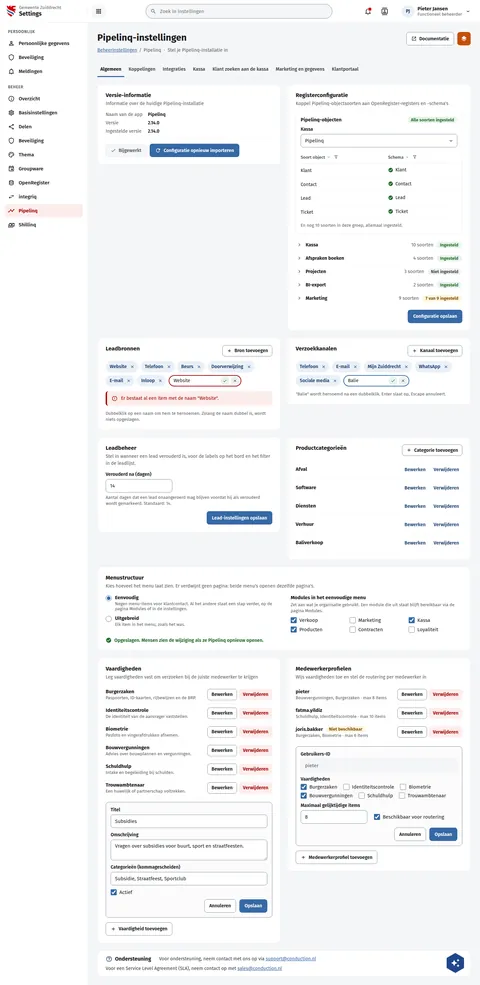
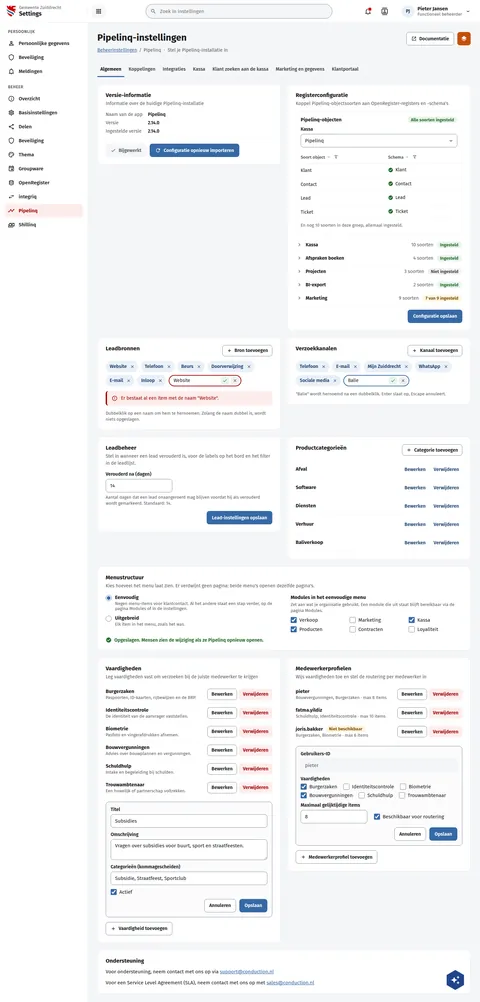
fix(screens): PqBeheer draws Ondersteuning as live's settings card
The board drew Ondersteuning as a one-line strip with an icon and a 16px
title. Live renders it as a full-width settings section: the 17px card
title, then the support and SLA lines as two paragraphs (pl4 item 9).
Rebuilt with build.py --only PqBeheer (2954 -> 3006).

Assisted-by: ClaudeCode:claude-opus-5-5

diff --git a/preview/screens/boards/PqBeheer.html b/preview/screens/boards/PqBeheer.html
@@ -375,10 +375,10 @@ a{color:var(--sc-primary, #3669a5)}a:hover{color:var(--sc-primary-deep, #234a78)
             <div style="display: flex; flex-wrap: wrap; align-items: center; gap: 10px"><button type="button" style="display: inline-flex; align-items: center; gap: 8px; height: 40px; padding: 0 14px; border: 1px solid var(--sc-work-field, #828a95); border-radius: 8px; background: #ffffff; color: var(--sc-work-ink, #1b1c1d); white-space: nowrap; font: 600 14px var(--sc-font, 'Fira Sans'), sans-serif"><svg width="16" height="16" viewbox="0 0 24 24" fill="currentColor" aria-hidden="true"><path d="M19,13H13V19H11V13H5V11H11V5H13V11H19V13Z"></path></svg>Medewerkerprofiel toevoegen</button></div>
           </section>
 
-          <section aria-labelledby="pq-s-support" style="grid-column: 1 / -1; background: #ffffff; border: 1px solid var(--sc-work-line, #e4e6ea); border-radius: 12px; padding: 22px 24px; display: flex; flex-direction: column; gap: 14px; min-width: 0; box-sizing: border-box; flex-direction: row; flex-wrap: wrap; align-items: center; gap: 10px 24px; padding: 16px 24px">
-            <h2 id="pq-s-support" style="margin: 0; font-size: 16px; font-weight: 700; display: inline-flex; align-items: center; gap: 8px"><svg width="20" height="20" viewbox="0 0 24 24" fill="#234a78" aria-hidden="true" style="fill:var(--sc-primary-deep, #234a78)"><path d="M11,18H13V16H11V18M12,2A10,10 0 0,0 2,12A10,10 0 0,0 12,22A10,10 0 0,0 22,12A10,10 0 0,0 12,2M12,20C7.59,20 4,16.41 4,12C4,7.59 7.59,4 12,4C16.41,4 20,7.59 20,12C20,16.41 16.41,20 12,20M12,6A4,4 0 0,0 8,10H10A2,2 0 0,1 12,8A2,2 0 0,1 14,10C14,12 11,11.75 11,15H13C13,12.75 16,12.5 16,10A4,4 0 0,0 12,6Z"></path></svg>Ondersteuning</h2>
-            <span style="font-size: 14px; color: var(--sc-work-text, #3d4047)">Voor ondersteuning, neem contact met ons op via <a href="mailto:support@conduction.nl">support@conduction.nl</a></span>
-            <span style="font-size: 14px; color: var(--sc-work-text, #3d4047)">Voor een Service Level Agreement (SLA), neem contact op met <a href="mailto:sales@conduction.nl">sales@conduction.nl</a></span>
+          <section aria-labelledby="pq-s-support" style="grid-column: 1 / -1; background: #ffffff; border: 1px solid var(--sc-work-line, #e4e6ea); border-radius: 12px; padding: 22px 24px; display: flex; flex-direction: column; gap: 14px; min-width: 0; box-sizing: border-box; gap: 10px">
+            <h2 id="pq-s-support" style="margin: 0; font-size: 17px; font-weight: 700; line-height: 1.3">Ondersteuning</h2>
+            <p style="margin: 0; font-size: 15px; line-height: 1.5">Voor ondersteuning, neem contact met ons op via <a href="mailto:support@conduction.nl">support@conduction.nl</a></p>
+            <p style="margin: 0; font-size: 15px; line-height: 1.5">Voor een Service Level Agreement (SLA), neem contact met ons op met <a href="mailto:sales@conduction.nl">sales@conduction.nl</a></p>
           </section>
         </div>
       </main>

diff --git a/screens-src/zuiddrecht/PqBeheer.dc.html b/screens-src/zuiddrecht/PqBeheer.dc.html
@@ -203,10 +203,10 @@ a{color:#3669a5}a:hover{color:#234a78}
             <div style="{{ S.row }}"><button type="button" style="{{ S.btnS }}"><svg width="16" height="16" viewBox="0 0 24 24" fill="currentColor" aria-hidden="true"><path d="M19,13H13V19H11V13H5V11H11V5H13V11H19V13Z"></path></svg>Medewerkerprofiel toevoegen</button></div>
           </section>
 
-          <section aria-labelledby="pq-s-support" style="{{ S.cardWide }}; flex-direction: row; flex-wrap: wrap; align-items: center; gap: 10px 24px; padding: 16px 24px">
-            <h2 id="pq-s-support" style="margin: 0; font-size: 16px; font-weight: 700; display: inline-flex; align-items: center; gap: 8px"><svg width="20" height="20" viewBox="0 0 24 24" fill="#234a78" aria-hidden="true"><path d="M11,18H13V16H11V18M12,2A10,10 0 0,0 2,12A10,10 0 0,0 12,22A10,10 0 0,0 22,12A10,10 0 0,0 12,2M12,20C7.59,20 4,16.41 4,12C4,7.59 7.59,4 12,4C16.41,4 20,7.59 20,12C20,16.41 16.41,20 12,20M12,6A4,4 0 0,0 8,10H10A2,2 0 0,1 12,8A2,2 0 0,1 14,10C14,12 11,11.75 11,15H13C13,12.75 16,12.5 16,10A4,4 0 0,0 12,6Z"></path></svg>Ondersteuning</h2>
-            <span style="font-size: 14px; color: #3d4047">Voor ondersteuning, neem contact met ons op via <a href="mailto:support@conduction.nl">support@conduction.nl</a></span>
-            <span style="font-size: 14px; color: #3d4047">Voor een Service Level Agreement (SLA), neem contact op met <a href="mailto:sales@conduction.nl">sales@conduction.nl</a></span>
+          <section aria-labelledby="pq-s-support" style="{{ S.cardWide }}; gap: 10px">
+            <h2 id="pq-s-support" style="{{ S.h2 }}">Ondersteuning</h2>
+            <p style="margin: 0; font-size: 15px; line-height: 1.5">Voor ondersteuning, neem contact met ons op via <a href="mailto:support@conduction.nl">support@conduction.nl</a></p>
+            <p style="margin: 0; font-size: 15px; line-height: 1.5">Voor een Service Level Agreement (SLA), neem contact met ons op met <a href="mailto:sales@conduction.nl">sales@conduction.nl</a></p>
           </section>
         </div>
       </main>
